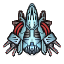
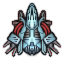
Update Grav Lance sprites and DPO tweaks
DPO statuses moved into separate void to not clutter actual logic.

diff --git a/src/neon/nsp/data/hullmods/NSP_DynamicPowerOverrides_Subsystem.java b/src/neon/nsp/data/hullmods/NSP_DynamicPowerOverrides_Subsystem.java
@@ -33,6 +33,10 @@ public class NSP_DynamicPowerOverrides_Subsystem extends MagicSubsystem {
     float WEAPONS_BONUS_MAX = 1.0F;
     float WEAPONS_NERF_MAX = 0.5F;
 
+    //these in actuality are 2x the value due to effect going up to 2
+    private static final float WEAPON_MALFUNCTION_PROB = 0.07f;
+    private static final float ENGINE_MALFUNCTION_PROB = 0.05f;
+
     protected Object STATUSKEY1 = new Object();
     protected Object STATUSKEY2 = new Object();
     protected Object STATUSKEY3 = new Object();
@@ -127,6 +131,10 @@ public class NSP_DynamicPowerOverrides_Subsystem extends MagicSubsystem {
 
         ShipEngineControllerAPI engines = ship.getEngineController();
 
+        boolean player = false;
+        player = ship == Global.getCombatEngine().getPlayerShip();
+
+
         if (engine_direction > ENGINE_BONUS_TIME_MAX) {
             engine_direction = ENGINE_BONUS_TIME_MAX;
         } else if (engine_direction < 0.0F) {
@@ -144,58 +152,36 @@ public class NSP_DynamicPowerOverrides_Subsystem extends MagicSubsystem {
             engine_direction += amount;
             weapons_direction -= amount * 5.0F;
 
-            //Speed buff if subsystem is off
+            //Speed buff
             if (engine_direction > 0.0F) {
                 engine_effect = Math.max(1.0F, 1.0F + ENGINE_BONUS_MAX * (active_effect / ENGINE_BONUS_TIME_MAX));
                 ship.getMutableStats().getMaxSpeed().modifyMult(MOD_KEY, engine_effect);
-              //  ship.getMutableStats().getMaxTurnRate().modifyMult(MOD_KEY, engine_effect);
+                //  ship.getMutableStats().getMaxTurnRate().modifyMult(MOD_KEY, engine_effect);
                 ship.getMutableStats().getAcceleration().modifyMult(MOD_KEY, engine_effect);
-               // ship.getMutableStats().getTurnAcceleration().modifyMult(MOD_KEY, engine_effect);
+                // ship.getMutableStats().getTurnAcceleration().modifyMult(MOD_KEY, engine_effect);
             }
 
+            //system blocked and malfunction chance
             if (engine_direction > 7f) {
                 ship.blockCommandForOneFrame(ShipCommand.USE_SYSTEM);
-                Global.getCombatEngine().maintainStatusForPlayerShip(STATUSKEY4,
-                        DPO_EngineIcon,
-                        "Dynamic Power Overrides",
-                        "Main shipsystem disabled.", true);
+                stats.getEngineMalfunctionChance().modifyFlat(MOD_KEY, ENGINE_MALFUNCTION_PROB * engine_effect);
             }
 
+            //weapona debuff
             if (weapons_direction <= 0.0F) {
                 weapon_effect = 1.0F - WEAPONS_NERF_MAX * (engine_direction / ENGINE_BONUS_TIME_MAX);
                 ship.getMutableStats().getFluxDissipation().modifyMult(MOD_KEY, weapon_effect);
                 ship.getMutableStats().getBallisticRoFMult().modifyMult(MOD_KEY, weapon_effect);
                 ship.getMutableStats().getEnergyRoFMult().modifyMult(MOD_KEY, weapon_effect);
             }
-
-            //For Off case
-            if (weapons_direction <= 0.0F) {
-                Global.getCombatEngine().maintainStatusForPlayerShip(STATUSKEY1,
-                        DPO_EngineIcon,
-                        "Dynamic Power Overrides - Weapons",
-                        "Weapon RoF: -" + String.format("%.0f", (1 - weapon_effect) * 100) + "%", true);
-            } else {
-                Global.getCombatEngine().maintainStatusForPlayerShip(STATUSKEY1,
-                        DPO_EngineIcon,
-                        "Dynamic Power Overrides - Weapons",
-                        "Weapon RoF: -0%", true);
-            }
-
-            Global.getCombatEngine().maintainStatusForPlayerShip(STATUSKEY2,
-                    DPO_EngineIcon,
-                    "Dynamic Power Overrides - Engines",
-                    "Max Speed: +" + String.format("%.0f", (engine_effect - 1) * 100) + "%", false);
-
-            Global.getCombatEngine().maintainStatusForPlayerShip(STATUSKEY3,
-                    DPO_EngineIcon,
-                    "Dynamic Power Overrides",
-                    "active_effect: " + String.format("%.2f", active_effect) + " | EE: " + String.format("%.2f", engine_effect) + " | WE: " + String.format("%.2f", weapon_effect), false);
         }
+
         //1 - Weapons mode
-        else if (ACTIVE_MODE == 1) {
+        if (ACTIVE_MODE == 1) {
             engine_direction -= amount * 5.0F;
             weapons_direction += amount;
 
+            //weapon buff
             if (weapons_direction > 0.0F) {
                 weapon_effect = Math.max(1.0F, 1.0F + WEAPONS_BONUS_MAX * (active_effect / WEAPONS_BONUS_TIME_MAX));
                 ship.getMutableStats().getFluxDissipation().modifyMult(MOD_KEY, weapon_effect);
@@ -203,14 +189,13 @@ public class NSP_DynamicPowerOverrides_Subsystem extends MagicSubsystem {
                 ship.getMutableStats().getEnergyRoFMult().modifyMult(MOD_KEY, weapon_effect);
             }
 
+            //system blocked and malfunction chance
             if (weapons_direction > 7f) {
                 ship.blockCommandForOneFrame(ShipCommand.USE_SYSTEM);
-                Global.getCombatEngine().maintainStatusForPlayerShip(STATUSKEY8,
-                        DPO_WeaponsIcon,
-                        "Dynamic Power Overrides",
-                        "Main shipsystem disabled.", true);
+                stats.getWeaponMalfunctionChance().modifyFlat(MOD_KEY, WEAPON_MALFUNCTION_PROB * weapon_effect);
             }
 
+            //speed debuff
             if (engine_direction <= 0.0F) {
                 engine_effect = 1.0F - ENGINE_NERF_MAX * (weapons_direction / WEAPONS_BONUS_TIME_MAX);
                 ship.getMutableStats().getMaxSpeed().modifyMult(MOD_KEY, engine_effect);
@@ -218,27 +203,6 @@ public class NSP_DynamicPowerOverrides_Subsystem extends MagicSubsystem {
                 ship.getMutableStats().getAcceleration().modifyMult(MOD_KEY, engine_effect);
                // ship.getMutableStats().getTurnAcceleration().modifyMult(MOD_KEY, engine_effect);
             }
-
-            Global.getCombatEngine().maintainStatusForPlayerShip(STATUSKEY5,
-                    DPO_WeaponsIcon,
-                    "Dynamic Power Overrides - Weapons",
-                    "Weapon RoF: +" + String.format("%.0f", (weapon_effect - 1) * 100) + "%", false);
-            if (engine_direction <= 0.0F) {
-                Global.getCombatEngine().maintainStatusForPlayerShip(STATUSKEY6,
-                        DPO_WeaponsIcon,
-                        "Dynamic Power Overrides - Engines",
-                        "Max Speed: -" + String.format("%.0f", (1 - engine_effect) * 100) + "%", true);
-            } else {
-                Global.getCombatEngine().maintainStatusForPlayerShip(STATUSKEY6,
-                        DPO_WeaponsIcon,
-                        "Dynamic Power Overrides - Engines",
-                        "Max Speed: -0%", true);
-            }
-
-            Global.getCombatEngine().maintainStatusForPlayerShip(STATUSKEY7,
-                    DPO_WeaponsIcon,
-                    "Dynamic Power Overrides",
-                    "active_effect: " + String.format("%.2f", active_effect) + " | EE: " + String.format("%.2f", engine_effect) + " | WE: " + String.format("%.2f", weapon_effect), false);
 
         }
 
@@ -250,8 +214,84 @@ public class NSP_DynamicPowerOverrides_Subsystem extends MagicSubsystem {
             ship.setWeaponGlow(0, null, EnumSet.of(WeaponAPI.WeaponType.BALLISTIC));
         }
 
+        //SO color shift iirc
         ship.getEngineController().fadeToOtherColor(this, color, null, 1f, 0.4f);
-        //ship.getEngineController().extendFlame(this, 0.25f, 0.25f, 0.25f);
+
+        //For all status stuff
+        maintainStatus();
+    }
+
+    private void maintainStatus() {
+        boolean player = false;
+        player = ship == Global.getCombatEngine().getPlayerShip();
+
+        float active_effect = Math.max(engine_direction, weapons_direction);
+
+        if (!player) {
+            return;
+        }
+
+        //0 - Drive mode
+        if (ACTIVE_MODE == 0) {
+            if (weapons_direction <= 0.0F) {
+                Global.getCombatEngine().maintainStatusForPlayerShip(STATUSKEY1,
+                        DPO_EngineIcon,
+                        "Dynamic Power Overrides - Weapons",
+                        "Weapon RoF: -" + String.format("%.0f", (1 - weapon_effect) * 100) + "%", true);
+            } else {
+                Global.getCombatEngine().maintainStatusForPlayerShip(STATUSKEY1,
+                        DPO_EngineIcon,
+                        "Dynamic Power Overrides - Weapons",
+                        "Weapon RoF: -0%", true);
+            }
+            Global.getCombatEngine().maintainStatusForPlayerShip(STATUSKEY2,
+                    DPO_EngineIcon,
+                    "Dynamic Power Overrides - Engines",
+                    "Max Speed: +" + String.format("%.0f", (engine_effect - 1) * 100) + "%", false);
+
+            Global.getCombatEngine().maintainStatusForPlayerShip(STATUSKEY3,
+                    DPO_EngineIcon,
+                    "Dynamic Power Overrides",
+                    "Active Effect: " + String.format("%.1f", active_effect) + " | EE: " + String.format("%.1f", engine_effect) + " | WE: " + String.format("%.1f", weapon_effect), false);
+
+            if (engine_direction > 7f) {
+                Global.getCombatEngine().maintainStatusForPlayerShip(STATUSKEY4,
+                        DPO_EngineIcon,
+                        "Dynamic Power Overrides",
+                        "Main shipsystem disabled. Chance of engines malfunctions.", true);
+
+            }
+        }
+
+        //1 - Weapons mode
+        if (ACTIVE_MODE == 1) {
+            //Statuses for Weapon Overdrive mode
+            Global.getCombatEngine().maintainStatusForPlayerShip(STATUSKEY5, DPO_WeaponsIcon,
+                    "Dynamic Power Overrides - Weapons",
+                    "Weapon RoF: +" + String.format("%.0f", (weapon_effect - 1) * 100) + "%", false);
+            if (engine_direction <= 0.0F) {
+                Global.getCombatEngine().maintainStatusForPlayerShip(STATUSKEY6, DPO_WeaponsIcon,
+                        "Dynamic Power Overrides - Engines",
+                        "Max Speed: -" + String.format("%.0f", (1 - engine_effect) * 100) + "%", true);
+            } else {
+                Global.getCombatEngine().maintainStatusForPlayerShip(STATUSKEY6, DPO_WeaponsIcon,
+                        "Dynamic Power Overrides - Engines",
+                        "Max Speed: -0%", true);
+            }
+            Global.getCombatEngine().maintainStatusForPlayerShip(STATUSKEY7, DPO_WeaponsIcon,
+                    "Dynamic Power Overrides",
+                    "Active Effect: " + String.format("%.1f", active_effect) + " | EE: " + String.format("%.1f", engine_effect) + " | WE: " + String.format("%.1f", weapon_effect), false);
+
+            if (weapons_direction > 7f) {
+                ship.blockCommandForOneFrame(ShipCommand.USE_SYSTEM);
+                Global.getCombatEngine().maintainStatusForPlayerShip(STATUSKEY8,
+                        DPO_WeaponsIcon,
+                        "Dynamic Power Overrides",
+                        "Main shipsystem disabled. Chance of weapons malfunctions.", true);
+            }
+
+        }
+
     }
 
     @Override
